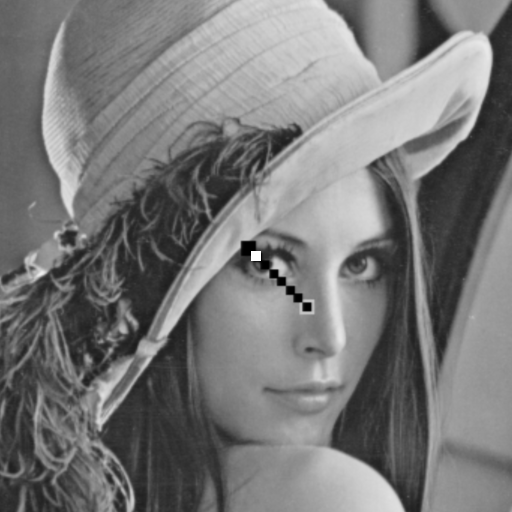
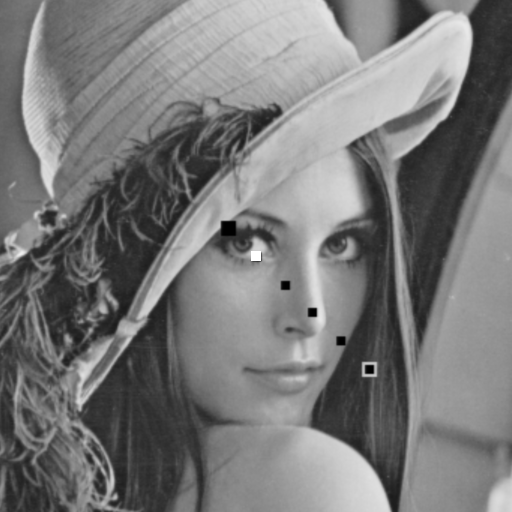
made argv N actually N instead of N+1 which was for some random legacy reason.  the reason higher frame counts lead to overflowing boundaries in later frames is because right now the scale factor each iteration isn't related to the number of frames.  need to do that next.

diff --git a/cPlusPlus/digitalZoom.cc b/cPlusPlus/digitalZoom.cc
@@ -25,7 +25,7 @@ int main (int argc, char* argv[]){
 	double BW = 2.5;
 
 	// make images for each frame of movie
-	int N = atoi(argv[4])+1;
+	int N = atoi(argv[4]);
 	ImageTemplate<double> movie[N];	
 
 	double alpha = (double)U / (double)D;
@@ -49,13 +49,14 @@ int main (int argc, char* argv[]){
 
 	double xf = (double)atoi(argv[5]);
 	double yf = (double)atoi(argv[6]);
-	
-	double xDelta = (xf-xi)/(double)N;
-	double yDelta = (yf-yi)/(double)N;
+
+	double xDelta = (xf-xi)/(double)(N-1);
+	double yDelta = (yf-yi)/(double)(N-1);
+	printf("xDelta: %f\tyDelta: %f\n", xDelta, yDelta);
 
 	// mark the center and the destination as a target
 	int B = 5;
-	target(&movie[0], (int)round(xf-xDelta), (int)round(yf-yDelta), B, 200.0);
+	target(&movie[0], (int)round(xf), (int)round(yf), B, 200.0);
 	target(&movie[0], (int)round(xi), (int)round(yi), B, 0.0);
 
 	// mark the deltas on original
